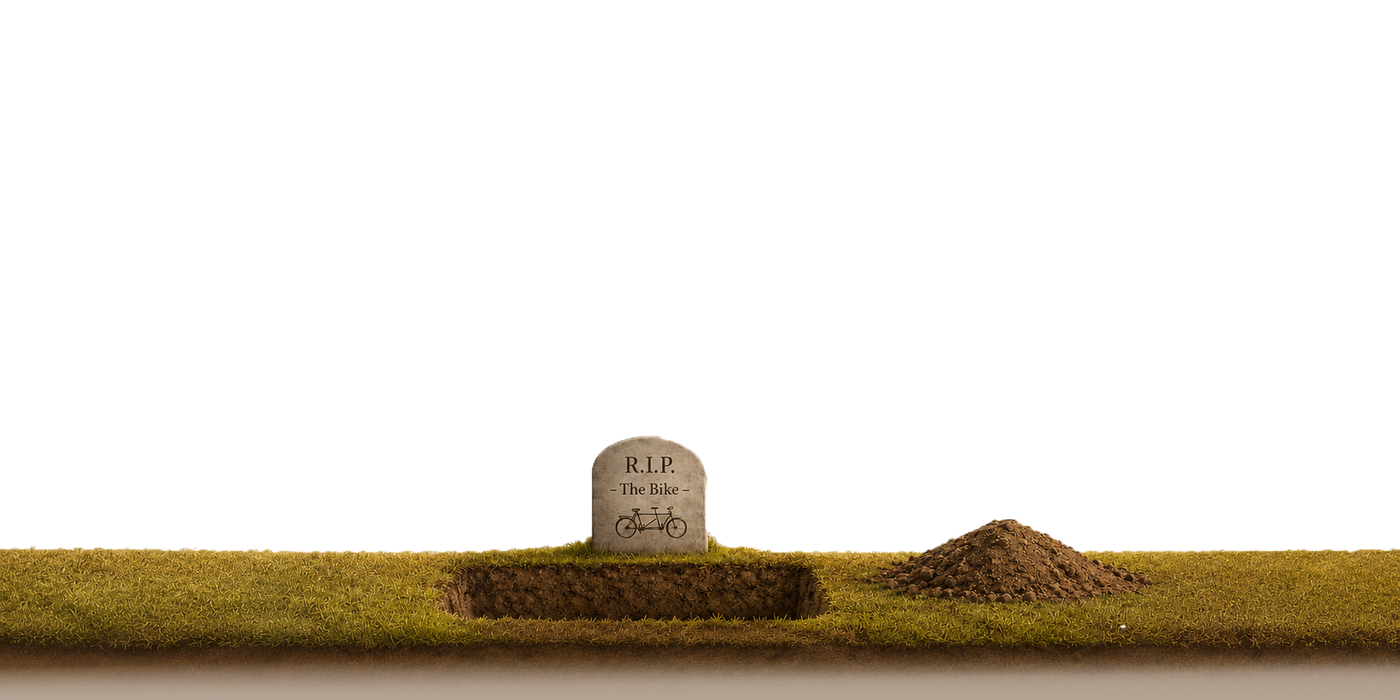
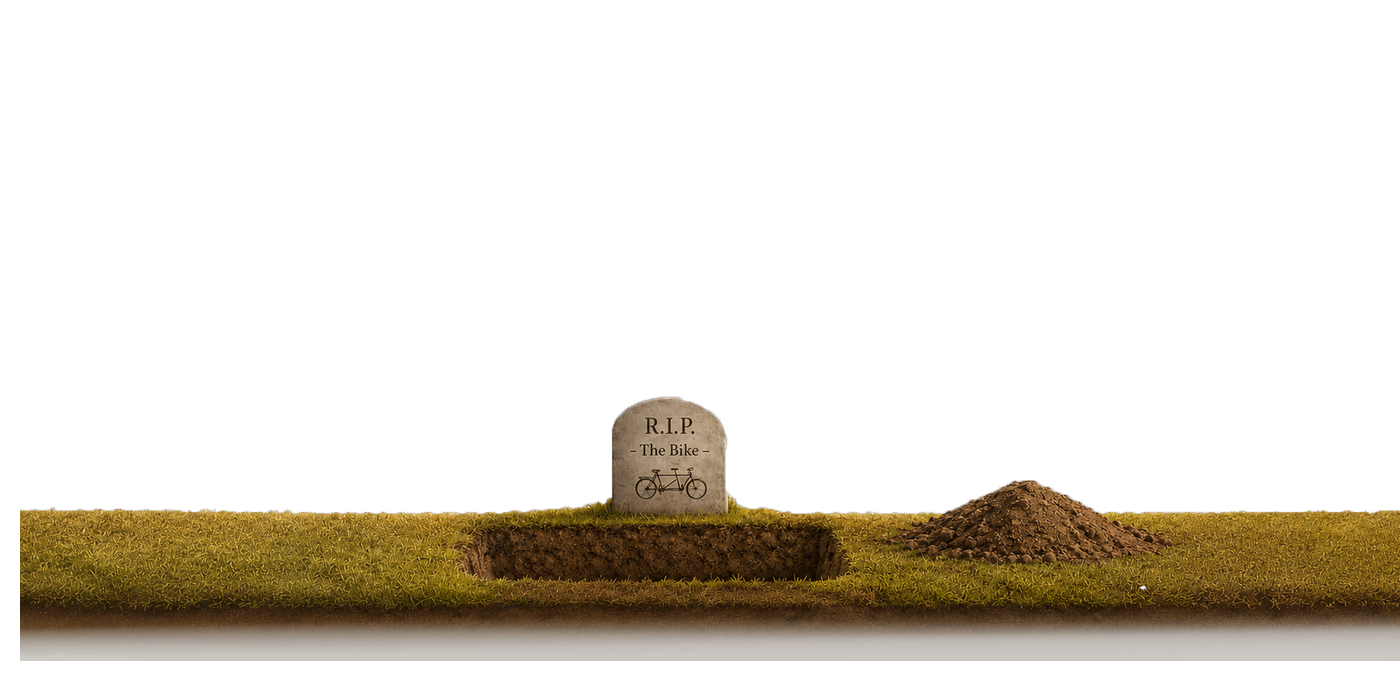
Postproduction above-ground polish: - Align gravestones: shifted dug image content by (+20, -39)px so its gravestone sits at the exact same pixel as intact (both at ~659, 397). No jump when the cross-fade fires. - Cross-fade both images: intact fades OUT while dug fades IN on .is-dug (0.6s ease). Wa

Changed region(s): [[0.0, 0.57, 1.0, 1.0]]

diff --git a/building-blocks/css/style.css b/building-blocks/css/style.css
@@ -2009,37 +2009,43 @@ body {
 
 .dig-grass {
   position: absolute;
-  top: 75vh;
+  top: 85vh;                /* Push grass line down so ~2/3 of initial
+                               viewport is sky (more sky visible on load) */
   left: 0; right: 0;
   height: 32px;
   z-index: 6;
   /* No background — the .dig-grass-img child provides the visual.
-     Overflow visible so the image can extend upward into the sky
-     (showing the gravestone above the grass line). */
+     Overflow visible so the image can extend upward into the sky AND
+     downward into the underground area (no seam). */
   overflow: visible;
 }
 .dig-grass-img {
   position: absolute;
   left: 0; right: 0;
-  bottom: 0;                /* image bottom sits AT the top of underground */
+  bottom: -40px;            /* extend into underground so image's
+                               transparent bottom fade overlaps the
+                               underground top — no visible seam. */
   width: 100%;
   height: auto;
   pointer-events: none;
   user-select: none;
   -webkit-user-drag: none;
   z-index: 2;
+  opacity: 1;
+  transition: opacity 0.6s ease;
 }
-/* Dug-state overlay: hidden until JS adds .is-dug to .dig-grass */
+/* Dug-state overlay: hidden until cursor drops below grass line */
 .dig-grass-img--dug {
   z-index: 3;
   opacity: 0;
-  transition: opacity 0.6s ease;
 }
+/* Cross-fade: intact fades OUT while dug fades IN */
+.dig-grass.is-dug .dig-grass-img:not(.dig-grass-img--dug) { opacity: 0; }
 .dig-grass.is-dug .dig-grass-img--dug { opacity: 1; }
 
 .dig-underground {
   position: absolute;
-  top: calc(75vh + 32px);
+  top: calc(85vh + 32px);   /* moved down with grass line */
   left: 0; right: 0;
   bottom: 0;
   /* Original colorway — medium warm brown at top fading to black. */
